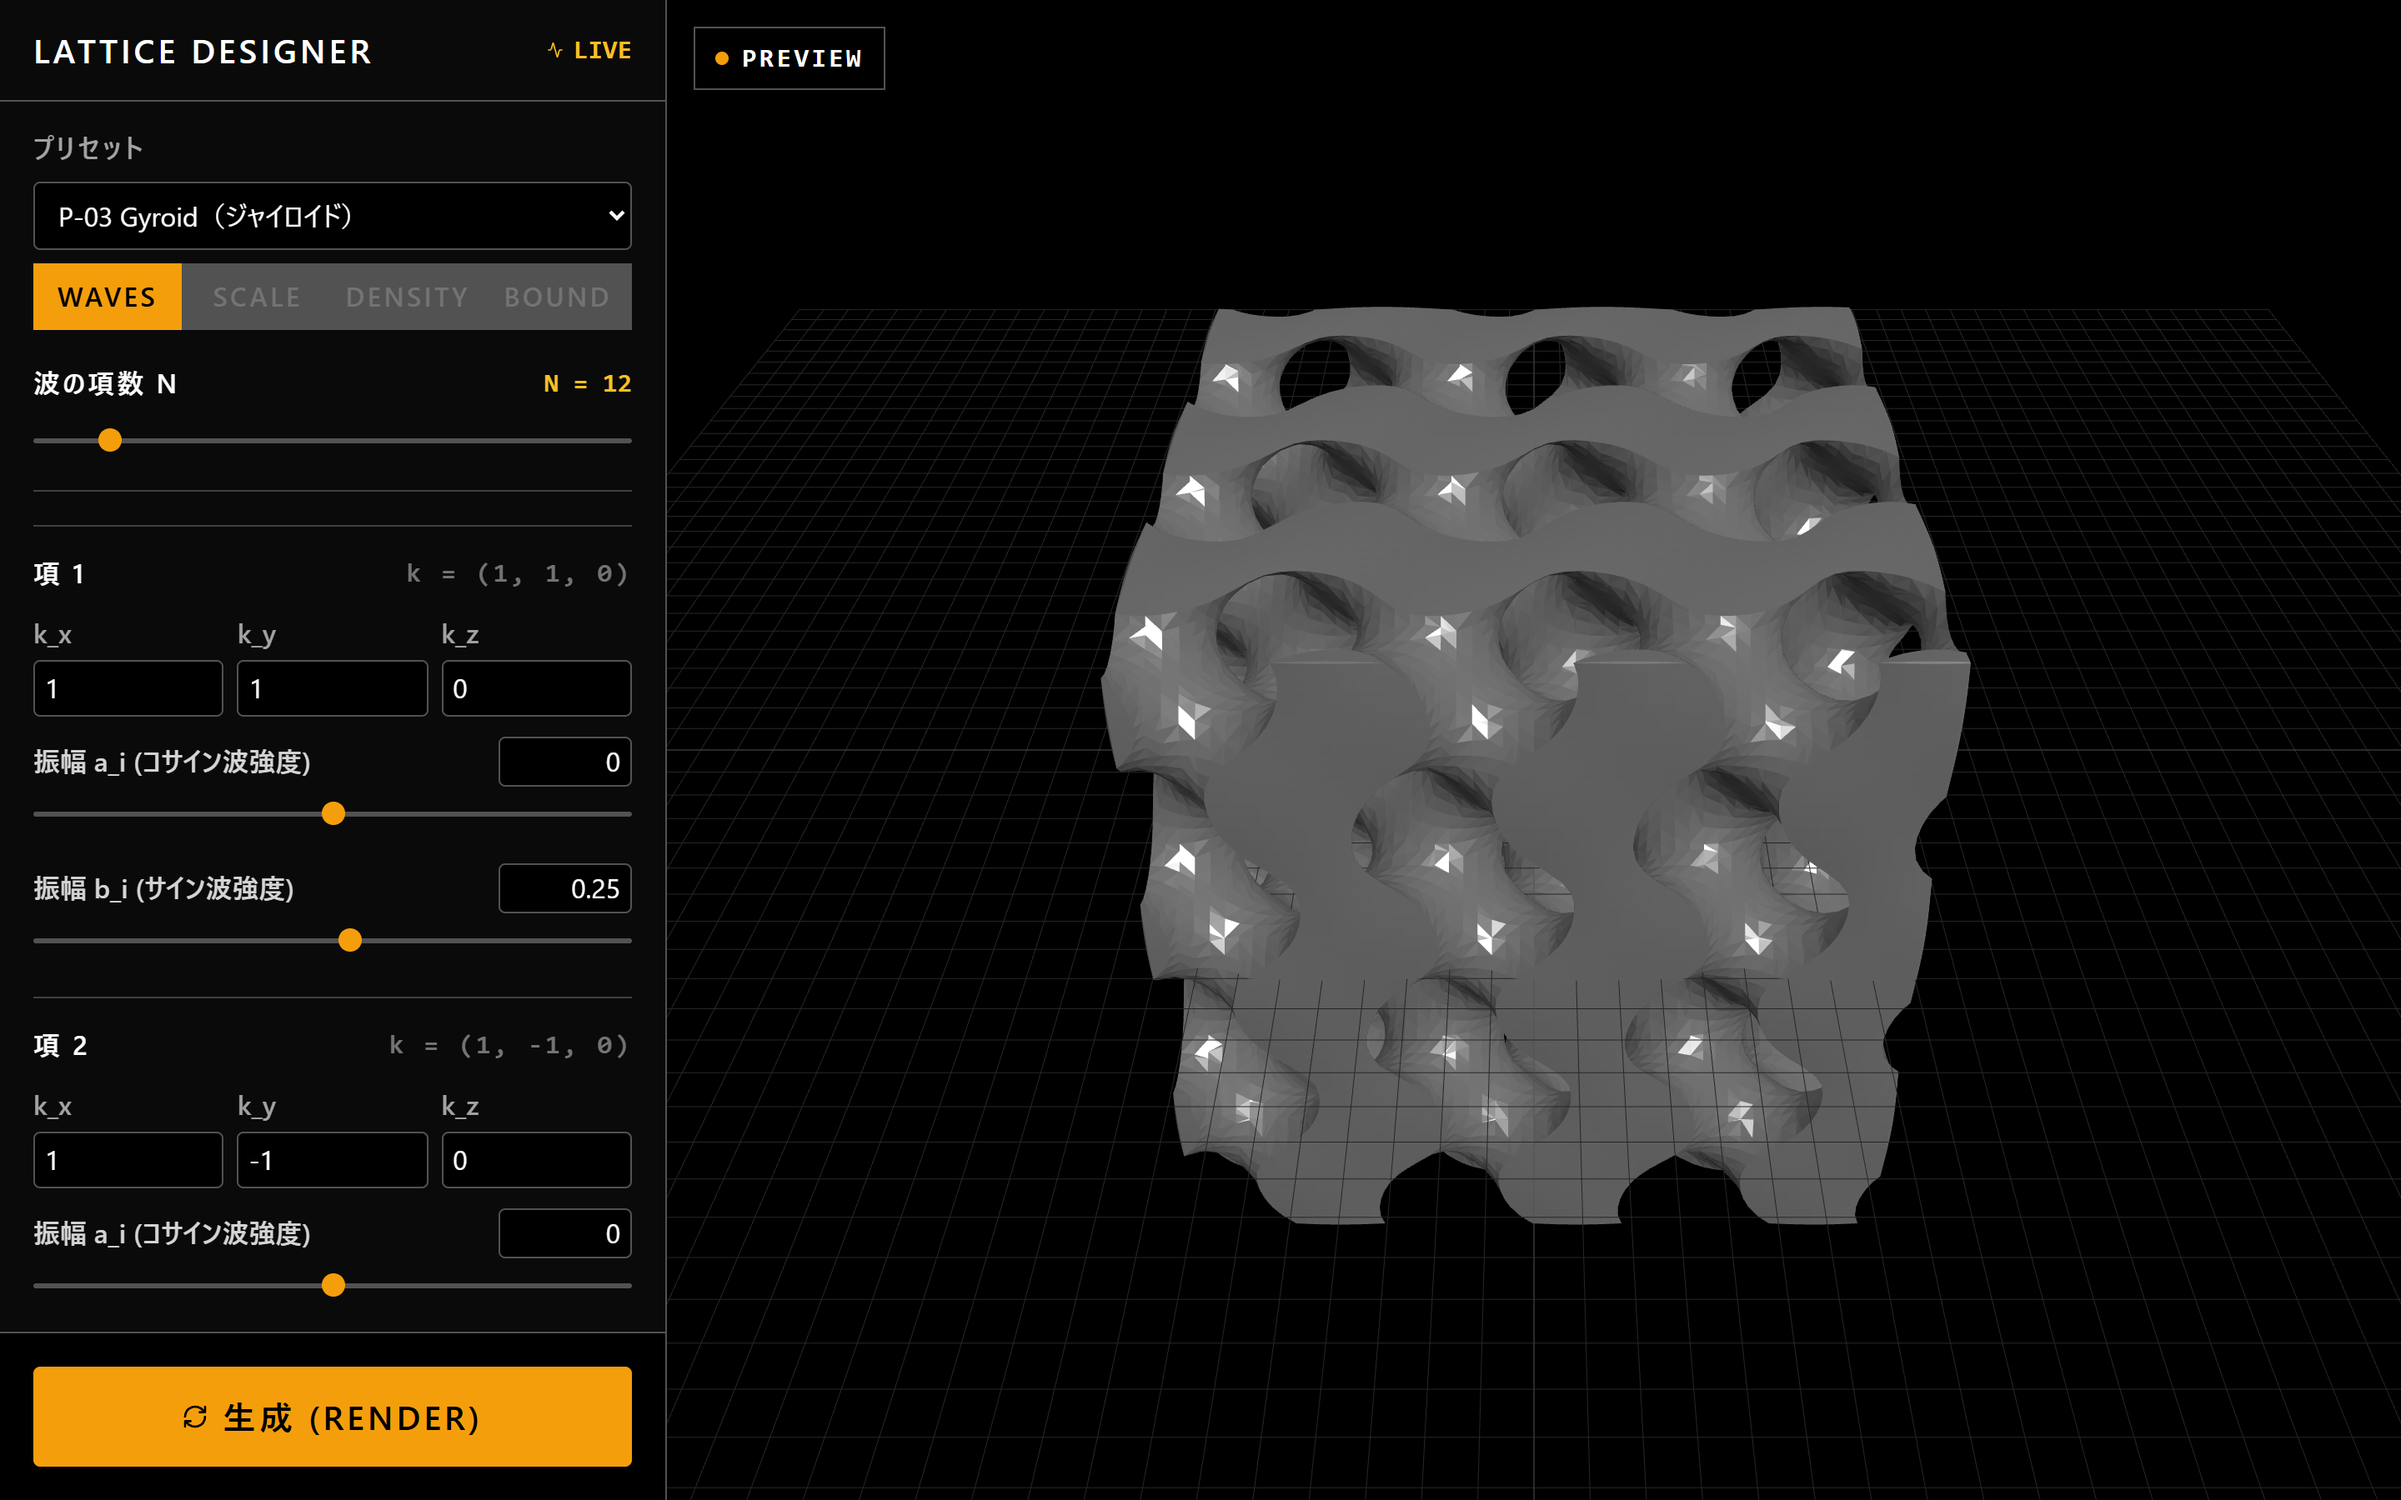
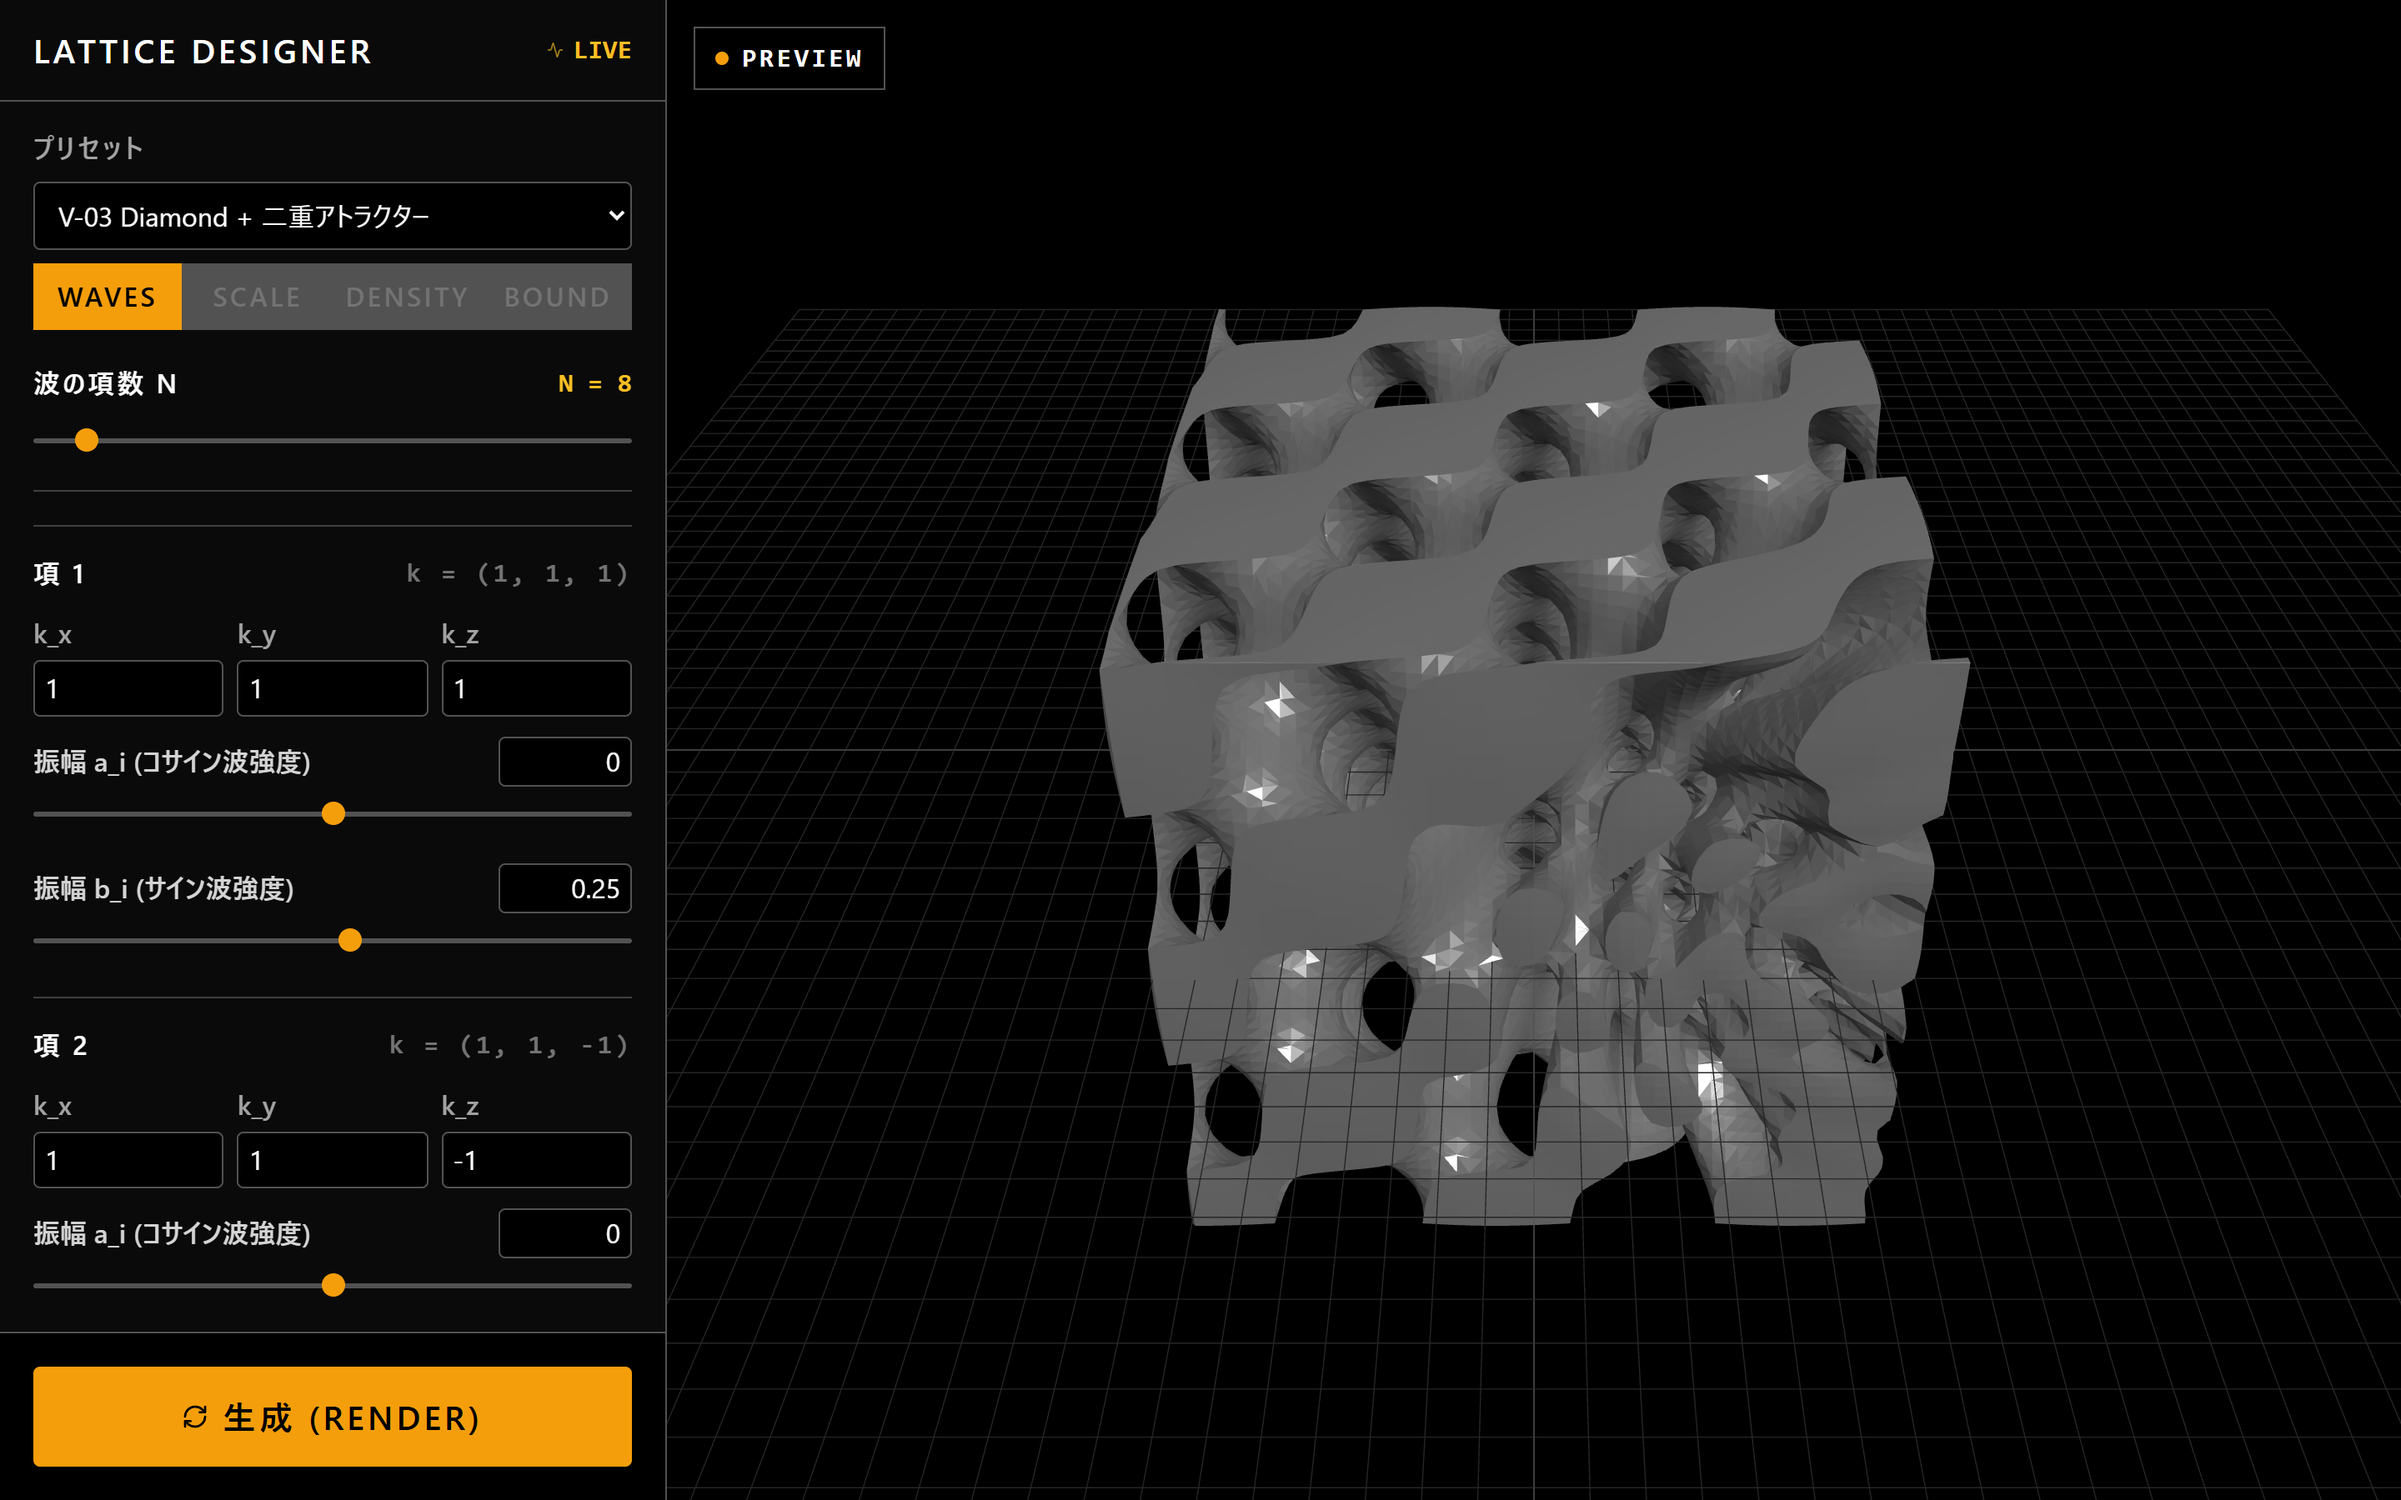
infill-designer のカバーを、ジャイロイドからアトラクターで崩れるダイヤモンド格子に撮り直す

diff --git a/src/content/works/infill-designer/index.md b/src/content/works/infill-designer/index.md
@@ -3,7 +3,7 @@ title: "infill-designer"
 year: 2026 # 並びに使う年(最後に手を入れた年)。仮
 context: "研究"
 cover: ./cover.png
-coverAlt: "infill-designer の画面。左に波の項のパラメータ、右にジャイロイドの格子のプレビュー"
+coverAlt: "infill-designer の画面。左に波の項のパラメータ、右にダイヤモンド格子のプレビュー。上は整った格子で、2つのアトラクターに近い下の方ほど形が崩れる"
 # 写真を置いたら cover と coverAlt を書く。一覧カードの1行は summary、本文は下の --- の後に書く(README の「作品を足す」)
-# 資料: M1研究「3Dプリントのためのラティスデザイン探索手法の拡張」(meiji/M1/橋本研ゼミM1/ の pptx)、実装 C:\Users\tm976\cs\archives\infill-designer。cover はフロントエンドだけをブラウザで起動して AI が撮った(2026-10-25。Rust のメッシュ生成が無い代わりの TypeScript の面なので、表面に白い三角が出る)、出力品の写真は Google フォトの書き出しの IMG_20260222_112241〜112328.jpg
+# 資料: M1研究「3Dプリントのためのラティスデザイン探索手法の拡張」(meiji/M1/橋本研ゼミM1/ の pptx)、実装 C:\Users\tm976\cs\archives\infill-designer。cover はフロントエンドだけをブラウザで起動し、プリセット V-03 Diamond + 二重アトラクター を生成して AI が撮った(2026-10-25。本人「ジャイロイドではなくもう少し珍しい形を作って撮影して」。Rust のメッシュ生成が無い代わりの TypeScript の面なので、表面に白い三角が出る)、出力品の写真は Google フォトの書き出しの IMG_20260222_112241〜112328.jpg
 ---
